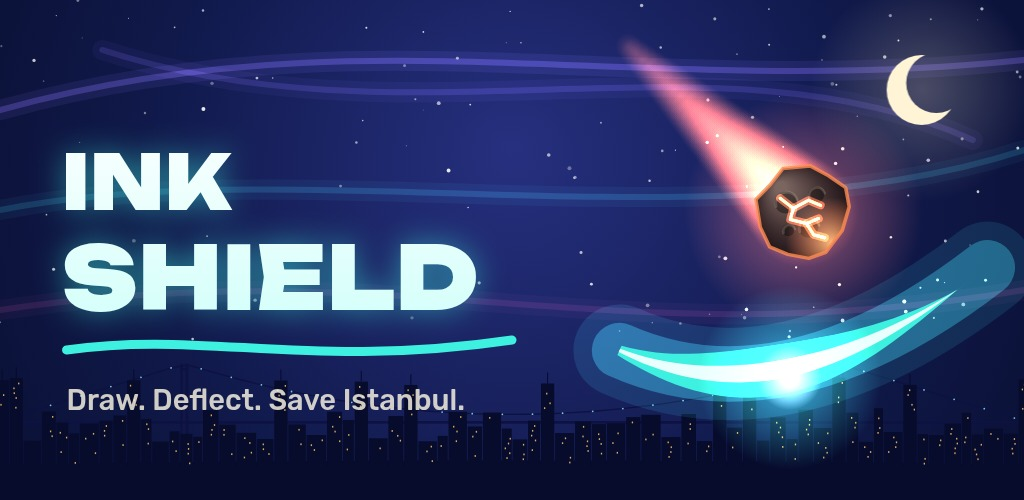
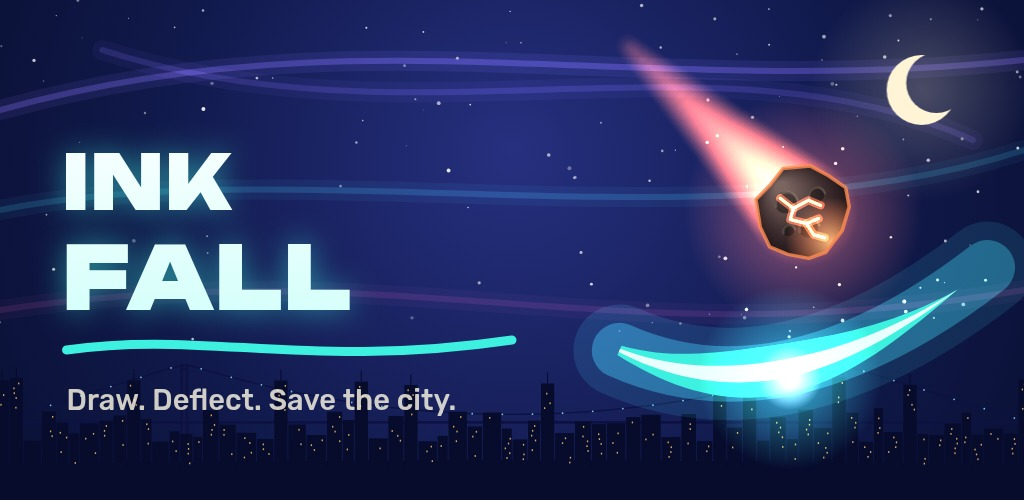
Ad Inkfall olarak değişti, menü sekmeleri hizalandı, performans iyileştirmeleri
- Oyun içi isim INKFALL, slogan 'Şehri meteordan kurtar'
- Alt sekme çubuğu daha ferah ve hizalı
- DPR üst sınırı 2, resize olayları kare başına birleştirildi
- HUD animasyonları zorunlu reflow yerine WAAPI ile

Claude-Session: https://claude.ai/code/session_01XAgz8TTKCExqGpRcbkkWAa

Changed region(s): [[0.0625, 0.45, 0.4688, 0.66], [0.3125, 0.78, 0.4688, 0.84]]

diff --git a/src/ui/hud.ts b/src/ui/hud.ts
@@ -149,9 +149,10 @@ export class HudView {
   }
 
   inkWarn(): void {
-    this.inkBar.classList.remove('shake');
-    void this.inkBar.offsetWidth;
-    this.inkBar.classList.add('shake');
+    this.inkBar.animate(
+      [{ transform: 'none' }, { transform: 'translateX(-5px)' }, { transform: 'translateX(5px)' }, { transform: 'translateX(-5px)' }, { transform: 'translateX(5px)' }, { transform: 'none' }],
+      { duration: 400 },
+    );
   }
 
   setFps(text: string | null): void {
@@ -170,9 +171,7 @@ export class HudView {
       this.score.textContent = txt;
       if (diff > 40 && this.time - this.lastPop > 0.16) {
         this.lastPop = this.time;
-        this.score.classList.remove('pop');
-        void this.score.offsetWidth;
-        this.score.classList.add('pop');
+        pulse(this.score, 1.12);
       }
     }
     if (!this.beaten && this.best0 > 0 && h.score > this.best0) {
@@ -214,9 +213,7 @@ export class HudView {
     if (m !== this.lastMult) {
       this.lastMult = m;
       this.mult.textContent = m;
-      this.mult.classList.remove('pop');
-      void this.mult.offsetWidth;
-      this.mult.classList.add('pop');
+      pulse(this.mult, 1.12);
     }
     if (h.combo >= 2) this.ring.style.strokeDashoffset = String(50.3 * (1 - h.comboT));
 
@@ -245,9 +242,7 @@ export class HudView {
       this.lastCoins = h.coins;
       this.coins.textContent = fmt(h.coins);
       if (bump) {
-        this.coins.classList.remove('bump');
-        void this.coins.offsetWidth;
-        this.coins.classList.add('bump');
+        pulse(this.coins, 1.25);
       }
     }
   }
@@ -264,4 +259,9 @@ export class HudView {
       coin: { x: view.toWorldX(c.left + c.width / 2), y: view.toWorldY(c.top + c.height / 2) },
     };
   }
+}
+
+/** Yerleşimi yeniden hesaplatmadan (reflow yok) kısa büyüme animasyonu */
+function pulse(el: HTMLElement, scale: number): void {
+  el.animate([{ transform: 'none' }, { transform: `scale(${scale})`, offset: 0.4 }, { transform: 'none' }], { duration: 220, easing: 'ease-out' });
 }

diff --git a/src/styles/main.css b/src/styles/main.css
@@ -577,7 +577,7 @@ svg {
 .home {
   justify-content: flex-start;
   gap: 0;
-  padding-bottom: calc(var(--tabbar-h) + var(--safe-b) + 12px);
+  padding-bottom: calc(var(--tabbar-h) + var(--safe-b) + 26px);
   background: linear-gradient(180deg, rgba(6, 10, 34, 0.7) 0%, rgba(6, 10, 34, 0) 26%, rgba(6, 10, 34, 0) 58%, rgba(6, 10, 34, 0.75) 86%);
   pointer-events: none;
 }
@@ -953,7 +953,7 @@ svg {
 }
 
 #ui.tabs-on {
-  --tabbar-h: 74px;
+  --tabbar-h: 84px;
 }
 
 .tabbar-layer {
@@ -970,9 +970,10 @@ svg {
   margin: 0 auto;
   max-width: 560px;
   height: calc(var(--tabbar-h) + var(--safe-b));
-  padding: 8px 8px calc(var(--safe-b) + 6px);
+  padding: 12px 14px calc(var(--safe-b) + 10px);
   display: grid;
   grid-template-columns: repeat(5, 1fr);
+  column-gap: 6px;
   align-items: end;
   background: linear-gradient(180deg, rgba(16, 22, 70, 0.97), rgba(8, 11, 38, 0.99));
   border-top: 1px solid var(--hair-strong);
@@ -993,15 +994,17 @@ svg {
   display: flex;
   flex-direction: column;
   align-items: center;
-  gap: 3px;
-  padding: 4px 0;
+  gap: 6px;
+  padding: 4px 0 2px;
+  min-width: 0;
   color: var(--dim);
   transition: color 0.2s;
 }
 
 .tab-ic {
   position: relative;
-  font-size: 24px;
+  font-size: 23px;
+  height: 26px;
   display: grid;
   place-items: center;
   transition: transform 0.25s var(--pop);
@@ -1012,6 +1015,9 @@ svg {
   font-weight: 700;
   letter-spacing: 0.02em;
   white-space: nowrap;
+  overflow: hidden;
+  text-overflow: ellipsis;
+  max-width: 100%;
 }
 
 .tab.active {
@@ -1027,7 +1033,7 @@ svg {
 .tab.active::before {
   content: '';
   position: absolute;
-  top: -9px;
+  top: -12px;
   width: 26px;
   height: 3px;
   border-radius: 3px;
@@ -1036,9 +1042,9 @@ svg {
 }
 
 .tab.home-tab .tab-ic {
-  width: 56px;
-  height: 56px;
-  margin-top: -26px;
+  width: 54px;
+  height: 54px;
+  margin-top: -34px;
   border-radius: 20px;
   font-size: 26px;
   color: #052229;

diff --git a/src/ui/strings.ts b/src/ui/strings.ts
@@ -1,9 +1,9 @@
 import { extend } from '../i18n';
 
 extend('tr', {
-  'app.title1': 'MÜREKKEP',
-  'app.title2': 'KALKANI',
-  'app.tagline': 'Çiz. Sektir. İstanbul’u koru.',
+  'app.title1': 'INK',
+  'app.title2': 'FALL',
+  'app.tagline': 'Çiz. Sektir. Şehri meteordan kurtar.',
   'app.tap': 'Başlamak için dokun',
 
   'menu.play': 'OYNA',
@@ -256,7 +256,7 @@ extend('tr', {
   'settings.resetConfirm': 'Emin misin? Silmek için tekrar dokun',
   'settings.resetDone': 'İlerleme sıfırlandı',
   'settings.fullscreen': 'Tam ekran',
-  'settings.credits': 'Mürekkep Kalkanı · sürüm {v}',
+  'settings.credits': 'Inkfall · sürüm {v}',
 
   'tut.0': 'Parmağını sürükleyip meteorun altına bir çizgi çiz',
   'tut.1': 'Sektirdiğin meteoru diğerine çarptır: ikisi de patlar',
@@ -274,8 +274,8 @@ extend('tr', {
 
 extend('en', {
   'app.title1': 'INK',
-  'app.title2': 'SHIELD',
-  'app.tagline': 'Draw. Deflect. Save Istanbul.',
+  'app.title2': 'FALL',
+  'app.tagline': 'Draw. Deflect. Save the city.',
   'app.tap': 'Tap to start',
 
   'menu.play': 'PLAY',
@@ -528,7 +528,7 @@ extend('en', {
   'settings.resetConfirm': 'Sure? Tap again to erase',
   'settings.resetDone': 'Progress reset',
   'settings.fullscreen': 'Fullscreen',
-  'settings.credits': 'Ink Shield · version {v}',
+  'settings.credits': 'Inkfall · version {v}',
 
   'tut.0': 'Drag your finger to draw a line under the meteor',
   'tut.1': 'Bounce the meteor into the other one: both explode',

diff --git a/src/render/view.ts b/src/render/view.ts
@@ -34,8 +34,18 @@ export class View {
     if (!ctx) throw new Error('Canvas 2D desteklenmiyor');
     this.ctx = ctx;
     this.resize();
-    window.addEventListener('resize', () => this.resize());
-    window.visualViewport?.addEventListener('resize', () => this.resize());
+    // aynı karede gelen boyut olaylarını birleştir (gökyüzü tek kez yeniden çizilir)
+    let queued = false;
+    const onResize = (): void => {
+      if (queued) return;
+      queued = true;
+      requestAnimationFrame(() => {
+        queued = false;
+        this.resize();
+      });
+    };
+    window.addEventListener('resize', onResize);
+    window.visualViewport?.addEventListener('resize', onResize);
   }
 
   onResize(fn: () => void): void {
@@ -43,7 +53,7 @@ export class View {
   }
 
   maxDpr(): number {
-    const cap = this.quality === 'high' ? 2.25 : this.quality === 'balanced' ? 1.6 : 1.1;
+    const cap = this.quality === 'high' ? 2 : this.quality === 'balanced' ? 1.6 : 1.1;
     return Math.max(1, Math.min(window.devicePixelRatio || 1, cap) * this.adaptive);
   }
 

diff --git a/index.html b/index.html
@@ -4,7 +4,7 @@
 <meta charset="utf-8">
 <meta name="viewport" content="width=device-width, initial-scale=1, maximum-scale=1, user-scalable=no, viewport-fit=cover">
 <meta name="theme-color" content="#060A22">
-<title>Mürekkep Kalkanı</title>
+<title>Inkfall</title>
 </head>
 <body>
 <div id="app">

diff --git a/capacitor.config.ts b/capacitor.config.ts
@@ -2,7 +2,7 @@ import type { CapacitorConfig } from '@capacitor/cli';
 
 const config: CapacitorConfig = {
   appId: 'com.talhamert.murekkepkalkani',
-  appName: 'Mürekkep Kalkanı',
+  appName: 'Inkfall',
   webDir: 'dist',
   backgroundColor: '#060A22',
   android: {

diff --git a/store/listing.md b/store/listing.md
@@ -3,14 +3,14 @@
 ## Türkçe (tr-TR)
 
 **Uygulama adı (en fazla 30 karakter)**
-Mürekkep Kalkanı
+Inkfall: Meteor Defense
 
 **Kısa açıklama (en fazla 80 karakter)**
-Çiz, sektir, zincirle! Meteorları mürekkeple sektir, İstanbul'u koru.
+Çiz, sektir, zincirle! Meteorları mürekkeple sektir, şehri meteordan kurtar.
 
 **Tam açıklama**
 
-Gökten meteorlar yağıyor ve İstanbul'un tek savunması senin kalemin.
+Gökten meteorlar yağıyor ve şehrin tek savunması senin kalemin.
 
 Parmağını sürükle, ışıldayan bir mürekkep çizgisi çiz. Meteorlar çizgine çarpıp seker. Sektirdiğin meteoru başka bir meteora çarptır, ikisi de patlasın. Kümelenmiş meteorlarda zincirleme patlamalar başlar, kombo büyür, puan katlanır.
 
@@ -38,14 +38,14 @@ Oyun tamamen çevrimdışı çalışır. Hiçbir kişisel veri toplanmaz.
 ## English (en-US)
 
 **App name**
-Ink Shield: Meteor Defense
+Inkfall: Meteor Defense
 
 **Short description (max 80 characters)**
-Draw, deflect, chain! Bounce meteors with ink and save Istanbul.
+Draw, deflect, chain! Bounce meteors with ink and save the city.
 
 **Full description**
 
-Meteors are raining down and Istanbul's only defense is your pen.
+Meteors are raining down and the city's only defense is your pen.
 
 Drag your finger to draw a glowing ink line. Meteors bounce off it. Deflect one into another and both explode. Clustered meteors set off chain reactions, your combo grows and your score multiplies.
 

diff --git a/README.md b/README.md
@@ -1,6 +1,6 @@
-# Mürekkep Kalkanı
+# Inkfall: Meteor Defense
 
-Parmağınla mürekkep çizgileri çizip gökten yağan meteorları sektirdiğin, İstanbul'u koruduğun bir mobil arcade oyunu.
+Parmağınla mürekkep çizgileri çizip gökten yağan meteorları sektirdiğin, şehri meteordan kurtardığın bir mobil arcade oyunu.
 Sektirdiğin meteoru başka bir meteora çarptırırsan ikisi de patlar. Zincirleme patlamalar komboyu, kombo da puanı büyütür.
 
 - **Tür:** Arcade / roguelite, dikey ekran, tek parmak
@@ -133,7 +133,7 @@ keytool -genkey -v -keystore upload.jks -keyalg RSA -keysize 2048 -validity 1000
 ### Play Console kontrol listesi
 
 - [ ] Geliştirici hesabı (tek seferlik 25 $)
-- [ ] Uygulama oluştur: ad **Mürekkep Kalkanı**, paket adı `com.talhamert.murekkepkalkani`
+- [ ] Uygulama oluştur: ad **Inkfall: Meteor Defense**, paket adı `com.talhamert.murekkepkalkani`
 - [ ] Mağaza girişi: metinler `store/listing.md`, ikon `store/icon-512.png`, tanıtım görseli `store/feature-graphic-tr.jpg`, ekran görüntüleri `store/screenshots/`
 - [ ] Gizlilik politikası: `docs/privacy-policy.md` dosyasını herkese açık bir adreste yayınla (örneğin GitHub Pages) ve adresini gir
 - [ ] Veri güvenliği formu: veri toplanmıyor, paylaşılmıyor (oyun yalnızca cihazda yerel kayıt tutar)
